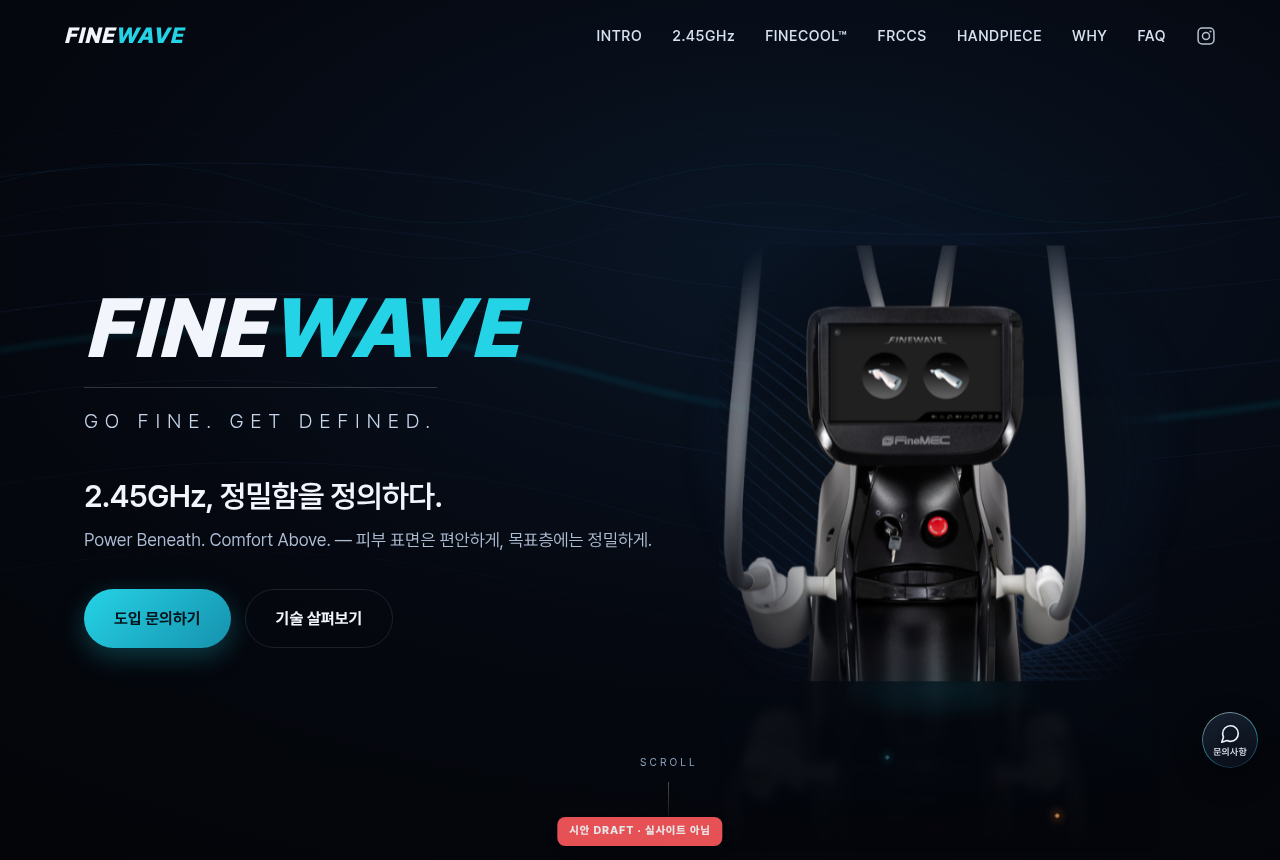
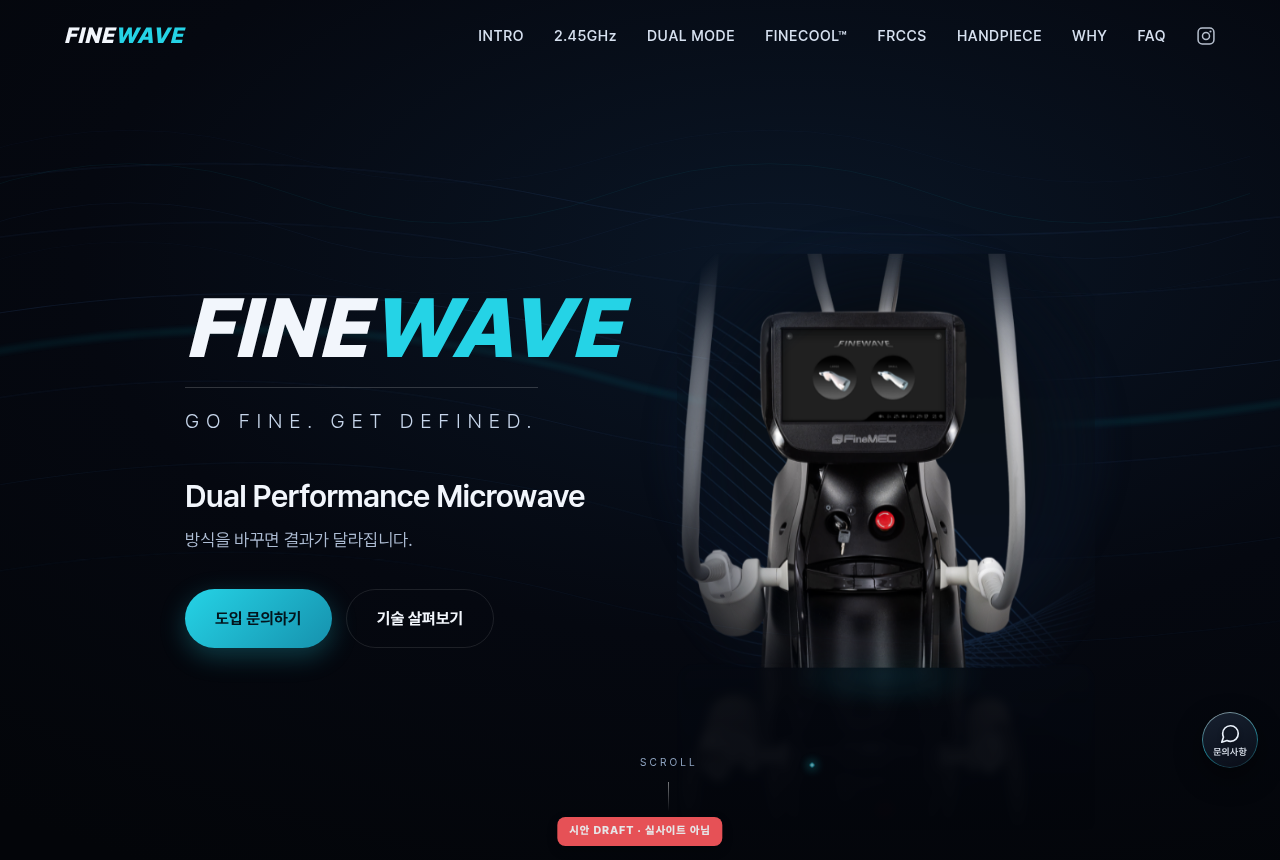
feat(finewave): 시안 v7 — 클라이언트 2차 수정요청 + 공식 브로슈어 반영
2차 요청 PPTX 반영:
- 히어로 하단 문구: "Rubbing의 한계를 넘어서다" → "Dual Performance Microwave"
- DUAL MODE 섹션 신설(2.45GHz~FINECOOL 사이) + 상단 메뉴 추가:
  Fine Mode(Targeted High-Peak Delivery) / Rubbing Mode(Gradual Heating),
  제공 카피 그대로 적용, 모드별 파형 아이콘(블루 스파이크/오렌지 사인파)
공식 브로슈어 교정:
- "Shot Mode" → 공식 명칭 "Fine Mode" (핸드피스 카드 태그)
- 섹션 넘버 01~09 재정렬, 모바일 1열 대응

Claude-Session: https://claude.ai/code/session_018nzHGbAUK6D3bYwrNkvjKd

diff --git a/output/mockup/index.html b/output/mockup/index.html
@@ -309,6 +309,24 @@ h2.fw-h2{font-size:clamp(30px,4.4vw,46px);font-weight:690;line-height:1.24;lette
 .fw-skin__caption .k-cool{color:var(--cyan)}
 .fw-skin__caption .k-blue{color:var(--blue)}
 
+/* ═══════ DUAL MODE (Fine / Rubbing) ═══════ */
+.fw-modes{display:grid;grid-template-columns:1fr 1fr;gap:22px;max-width:960px;margin:0 auto}
+.fw-mode{position:relative;border-radius:18px;padding:40px 34px;border:1px solid var(--line);
+  overflow:hidden;transition:transform .3s ease,border-color .3s ease}
+.fw-mode:hover{transform:translateY(-6px)}
+.fw-mode--fine{background:linear-gradient(155deg,rgba(59,141,255,.14),var(--bg-2))}
+.fw-mode--fine:hover{border-color:rgba(59,141,255,.5)}
+.fw-mode--rub{background:linear-gradient(155deg,rgba(255,138,43,.12),var(--bg-2))}
+.fw-mode--rub:hover{border-color:rgba(255,138,43,.5)}
+.fw-mode__tag{font-size:12px;font-weight:800;letter-spacing:.22em;text-transform:uppercase}
+.fw-mode--fine .fw-mode__tag{color:var(--blue)}
+.fw-mode--rub .fw-mode__tag{color:var(--beam)}
+.fw-mode h3{font-size:23px;font-weight:720;letter-spacing:-.02em;margin:12px 0 6px}
+.fw-mode__en{font-size:13px;color:#9db0cc;letter-spacing:.08em;margin-bottom:16px}
+.fw-mode p{color:var(--muted);font-size:15px;line-height:1.75}
+/* 모드별 에너지 파형 아이콘 */
+.fw-mode__wave{position:absolute;right:26px;top:34px;opacity:.75}
+
 /* ═══════ FRCCS 5단계 프로세스 ═══════ */
 .fw-steps{display:grid;grid-template-columns:repeat(5,1fr);gap:12px;max-width:1040px;margin:44px auto 0;counter-reset:fwstep}
 .fw-step{position:relative;padding:22px 14px 18px;border:1px solid var(--line);border-radius:12px;background:var(--bg-2);text-align:left}
@@ -378,6 +396,7 @@ h2.fw-h2{font-size:clamp(30px,4.4vw,46px);font-weight:690;line-height:1.24;lette
   .fw-nav{display:none}
   .fw-burger{display:block}
   .fw-values__grid{grid-template-columns:1fr 1fr}
+  .fw-modes{grid-template-columns:1fr}
   .fw-steps{grid-template-columns:1fr 1fr}
   .fw-hp{grid-template-columns:1fr}
   .fw-why{grid-template-columns:1fr 1fr}
@@ -410,6 +429,7 @@ h2.fw-h2{font-size:clamp(30px,4.4vw,46px);font-weight:690;line-height:1.24;lette
     <nav class="fw-nav" aria-label="주요 메뉴">
       <a href="#top">INTRO</a>
       <a href="#tech">2.45GHz</a>
+      <a href="#dualmode">DUAL MODE</a>
       <a href="#finecool">FINECOOL™</a>
       <a href="#frccs">FRCCS</a>
       <a href="#handpiece">HANDPIECE</a>
@@ -453,8 +473,8 @@ h2.fw-h2{font-size:clamp(30px,4.4vw,46px);font-weight:690;line-height:1.24;lette
       <div>
         <div class="fw-hero__logo fw-load" style="--fw-d:2.3s">FINE<span style="color:var(--cyan)">WAVE</span></div>
         <div class="fw-hero__tag fw-load" style="--fw-d:2.55s">Go Fine. Get Defined.</div>
-        <p class="fw-hero__copy fw-load" style="--fw-d:2.8s">2.45GHz, 정밀함을 정의하다.
-          <small>Power Beneath. Comfort Above. — 피부 표면은 편안하게, 목표층에는 정밀하게.</small></p>
+        <p class="fw-hero__copy fw-load" style="--fw-d:2.8s">Dual Performance Microwave
+          <small>방식을 바꾸면 결과가 달라집니다.</small></p>
         <div class="fw-hero__cta fw-load" style="--fw-d:3.05s">
           <a class="fw-btn fw-btn--primary" href="#contact">도입 문의하기</a>
           <a class="fw-btn fw-btn--ghost" href="#tech">기술 살펴보기</a>
@@ -576,6 +596,39 @@ h2.fw-h2{font-size:clamp(30px,4.4vw,46px);font-weight:690;line-height:1.24;lette
   </div>
 </section>
 
+<!-- ══════════ DUAL MODE (신설 · 클라이언트 2차 요청: 2.45GHz와 FINECOOL 사이) ══════════ -->
+<section class="fw-sec" id="dualmode" style="background:var(--bg-1)">
+  <div class="fw-wrap">
+    <div class="fw-reveal" style="text-align:center;margin-bottom:52px">
+      <div class="fw-secno" style="justify-content:center">02 · Dual Mode</div>
+      <h2 class="fw-h2">Finewave's Dual Performance</h2>
+      <p class="fw-lead" style="margin-left:auto;margin-right:auto;text-align:center">
+        Finewave의 두 가지 모드는 목적 부위의 깊이와 면적에 따라<br>
+        최적화된 에너지를 전달하는 효과적인 솔루션입니다.</p>
+    </div>
+    <div class="fw-modes">
+      <div class="fw-mode fw-mode--fine fw-reveal">
+        <svg class="fw-mode__wave" width="64" height="28" viewBox="0 0 64 28" fill="none" aria-hidden="true">
+          <path d="M2 26h14l5-22 6 22h12l5-14 4 14h14" stroke="#3b8dff" stroke-width="2" stroke-linecap="round" stroke-linejoin="round"/>
+        </svg>
+        <div class="fw-mode__tag">Fine Mode</div>
+        <h3>Targeted High-Peak Delivery</h3>
+        <div class="fw-mode__en">고집중 · 선택 전달</div>
+        <p>짧은 시간 동안 높은 에너지를 집중 조사하여, 타겟 부위에 필요 에너지를 선택적으로 전달하도록 설계된 모드입니다.</p>
+      </div>
+      <div class="fw-mode fw-mode--rub fw-reveal">
+        <svg class="fw-mode__wave" width="64" height="28" viewBox="0 0 64 28" fill="none" aria-hidden="true">
+          <path d="M2 20 Q 10 8 18 20 T 34 20 T 50 20 T 66 20" stroke="#ff8a2b" stroke-width="2" stroke-linecap="round"/>
+        </svg>
+        <div class="fw-mode__tag">Rubbing Mode</div>
+        <h3>Gradual Heating</h3>
+        <div class="fw-mode__en">점진 · 균일 전달</div>
+        <p>부드러운 러빙을 통해 시술 부위 전반에<br>열에너지를 점진적이고 균일하게 전달합니다.</p>
+      </div>
+    </div>
+  </div>
+</section>
+
 <!-- ══════════ FINECOOL™: 실카피 + 실이미지 빔 깜빡임(T3) ══════════ -->
 <section class="fw-sec fw-cool" id="finecool">
   <div class="fw-wrap">
@@ -586,7 +639,7 @@ h2.fw-h2{font-size:clamp(30px,4.4vw,46px);font-weight:690;line-height:1.24;lette
       </div>
       <div>
         <div class="fw-reveal">
-          <div class="fw-secno">02 · Cooling</div>
+          <div class="fw-secno">03 · Cooling</div>
           <h2 class="fw-h2">FINECOOL™<br>이중 냉각시스템</h2>
           <div class="fw-eyebrow" style="margin-top:16px">Heat where it matters. Cool where it matters.</div>
           <p class="fw-lead">열 에너지는 정밀하게, 표면은 편안하게.<br>
@@ -616,7 +669,7 @@ h2.fw-h2{font-size:clamp(30px,4.4vw,46px);font-weight:690;line-height:1.24;lette
 <section class="fw-sec fw-frccs" id="frccs">
   <div class="fw-wrap">
     <div class="fw-reveal">
-      <div class="fw-secno" style="justify-content:center">03 · FRCCS</div>
+      <div class="fw-secno" style="justify-content:center">04 · FRCCS</div>
       <h2 class="fw-frccs__title">Forward-Reverse<br>Contact Control System</h2>
       <div class="fw-eyebrow" style="margin-top:18px">Contact Control System</div>
       <p class="fw-lead" style="margin-left:auto;margin-right:auto;text-align:center">
@@ -648,7 +701,7 @@ h2.fw-h2{font-size:clamp(30px,4.4vw,46px);font-weight:690;line-height:1.24;lette
 <section class="fw-sec" id="handpiece" style="background:var(--bg-1)">
   <div class="fw-wrap">
     <div class="fw-reveal" style="text-align:center;margin-bottom:52px">
-      <div class="fw-secno" style="justify-content:center">04 · Handpiece</div>
+      <div class="fw-secno" style="justify-content:center">05 · Handpiece</div>
       <h2 class="fw-h2">부위별로 선택하는 듀얼 핸드피스</h2>
       <p class="fw-lead" style="margin-left:auto;margin-right:auto;text-align:center">
         시술 부위와 목적에 따라 대·소 핸드피스를 선택합니다.<br>두 핸드피스 모두 FINECOOL™ 냉각과 FRCCS 접촉 제어를 지원합니다.</p>
@@ -660,7 +713,7 @@ h2.fw-h2{font-size:clamp(30px,4.4vw,46px);font-weight:690;line-height:1.24;lette
           <div class="fw-hpcard__tag">Small Handpiece</div>
           <h3>정밀 케어 — 얼굴·턱라인</h3>
           <p>좁고 섬세한 부위를 위한 소형 핸드피스. 얼굴 윤곽과 턱라인을 정밀하게 케어합니다.</p>
-          <ul><li>얼굴</li><li>턱라인</li><li>Shot Mode</li><li>FINECOOL™</li><li>FRCCS</li></ul>
+          <ul><li>얼굴</li><li>턱라인</li><li>Fine Mode</li><li>FINECOOL™</li><li>FRCCS</li></ul>
         </div>
       </div>
       <div class="fw-hpcard fw-reveal">
@@ -680,7 +733,7 @@ h2.fw-h2{font-size:clamp(30px,4.4vw,46px);font-weight:690;line-height:1.24;lette
 <section class="fw-sec fw-sec--alt" id="why">
   <div class="fw-wrap">
     <div class="fw-reveal" style="margin-bottom:48px">
-      <div class="fw-secno">05 · Why FINEWAVE</div>
+      <div class="fw-secno">06 · Why FINEWAVE</div>
       <h2 class="fw-h2">정밀함과 편안함을 함께 설계했습니다</h2>
     </div>
     <div class="fw-why">
@@ -713,7 +766,7 @@ h2.fw-h2{font-size:clamp(30px,4.4vw,46px);font-weight:690;line-height:1.24;lette
 <section class="fw-sec fw-clinic">
   <div class="fw-wrap">
     <div class="fw-reveal" style="margin-bottom:44px">
-      <div class="fw-secno">06 · For Clinics</div>
+      <div class="fw-secno">07 · For Clinics</div>
       <h2 class="fw-h2">병·의원 도입을 위한 준비</h2>
       <p class="fw-lead">시술자와 운영 관점에서 필요한 것들을 함께 제공합니다.</p>
     </div>
@@ -732,7 +785,7 @@ h2.fw-h2{font-size:clamp(30px,4.4vw,46px);font-weight:690;line-height:1.24;lette
 <section class="fw-sec" id="faq" style="background:var(--bg-1)">
   <div class="fw-wrap">
     <div class="fw-reveal" style="text-align:center;margin-bottom:52px">
-      <div class="fw-secno" style="justify-content:center">07 · FAQ</div>
+      <div class="fw-secno" style="justify-content:center">08 · FAQ</div>
       <h2 class="fw-h2">자주 묻는 질문</h2>
     </div>
     <div class="fw-faq fw-reveal">
@@ -746,7 +799,7 @@ h2.fw-h2{font-size:clamp(30px,4.4vw,46px);font-weight:690;line-height:1.24;lette
 <!-- ══════════ PRODUCT INQUIRY (문의 폼 확장 · 전환 구조) ══════════ -->
 <section class="fw-sec fw-cta" id="contact">
   <div class="fw-wrap">
-    <div class="fw-secno fw-reveal" style="justify-content:center">08 · Product Inquiry</div>
+    <div class="fw-secno fw-reveal" style="justify-content:center">09 · Product Inquiry</div>
     <h2 class="fw-reveal">FINEWAVE 도입을 고민 중이신가요?</h2>
     <p class="fw-reveal">장비 데모, 견적, 자료 요청 등 궁금한 점을 남겨주시면 담당자가 안내해 드립니다.</p>
     <form class="fw-form fw-reveal" onsubmit="return false" aria-label="제품 문의 폼(시안)">

diff --git a/output/mockup/PREVIEW.md b/output/mockup/PREVIEW.md
@@ -1,4 +1,12 @@
-# FINEWAVE 홈페이지 리뉴얼 — 시안 v6 미리보기 (DRAFT)
+# FINEWAVE 홈페이지 리뉴얼 — 시안 v7 미리보기 (DRAFT)
+
+> **v7 변경점 (클라이언트 2차 수정요청 PPTX + 공식 브로슈어 반영)**
+> 1. **히어로 하단 문구 변경**: "Rubbing의 한계를 넘어서다" → **"Dual Performance Microwave"** (요청 반영, 브로슈어 공식 포지셔닝)
+> 2. **DUAL MODE 섹션 신설**: 2.45GHz와 FINECOOL™ 사이 + 상단 메뉴 추가 (요청 반영)
+>    - FINE MODE — Targeted High-Peak Delivery: "짧은 시간 동안 높은 에너지를 집중 조사하여, 타겟 부위에 필요 에너지를 선택적으로 전달하도록 설계된 모드"
+>    - RUBBING MODE — Gradual Heating: "부드러운 러빙을 통해 시술 부위 전반에 열에너지를 점진적이고 균일하게 전달"
+> 3. **모드 명칭 교정**: 기존 "Shot Mode" 표기 → 공식 명칭 **"Fine Mode"** (브로슈어 기준)
+> 4. 섹션 넘버 재정렬 (01 Technology ~ 09 Product Inquiry)
 
 > **v6 변경점 (스토리텔링 확장 — 기존 정체성 유지 지침 반영)**
 > "제품을 보여준다 → 기술을 이해시킨다 → 안전성을 증명한다 → 시술 경험을 상상하게 한다 → 문의로 연결한다" 흐름으로 확장:
@@ -91,6 +99,9 @@
 
 ### 2-b) 피부 단면 다이어그램 (신설 · 에너지 도달 시각화)
 ![skin](preview-images/sec-skin.png)
+
+### 2-c) DUAL MODE (신설 · v7) — Fine Mode / Rubbing Mode
+![dualmode](preview-images/sec-dualmode.png)
 
 ### 3) FINECOOL™ — **실사이트 빔 이미지** 깜빡임(정지컷은 off 프레임)
 ![finecool](preview-images/sec-finecool.png)
